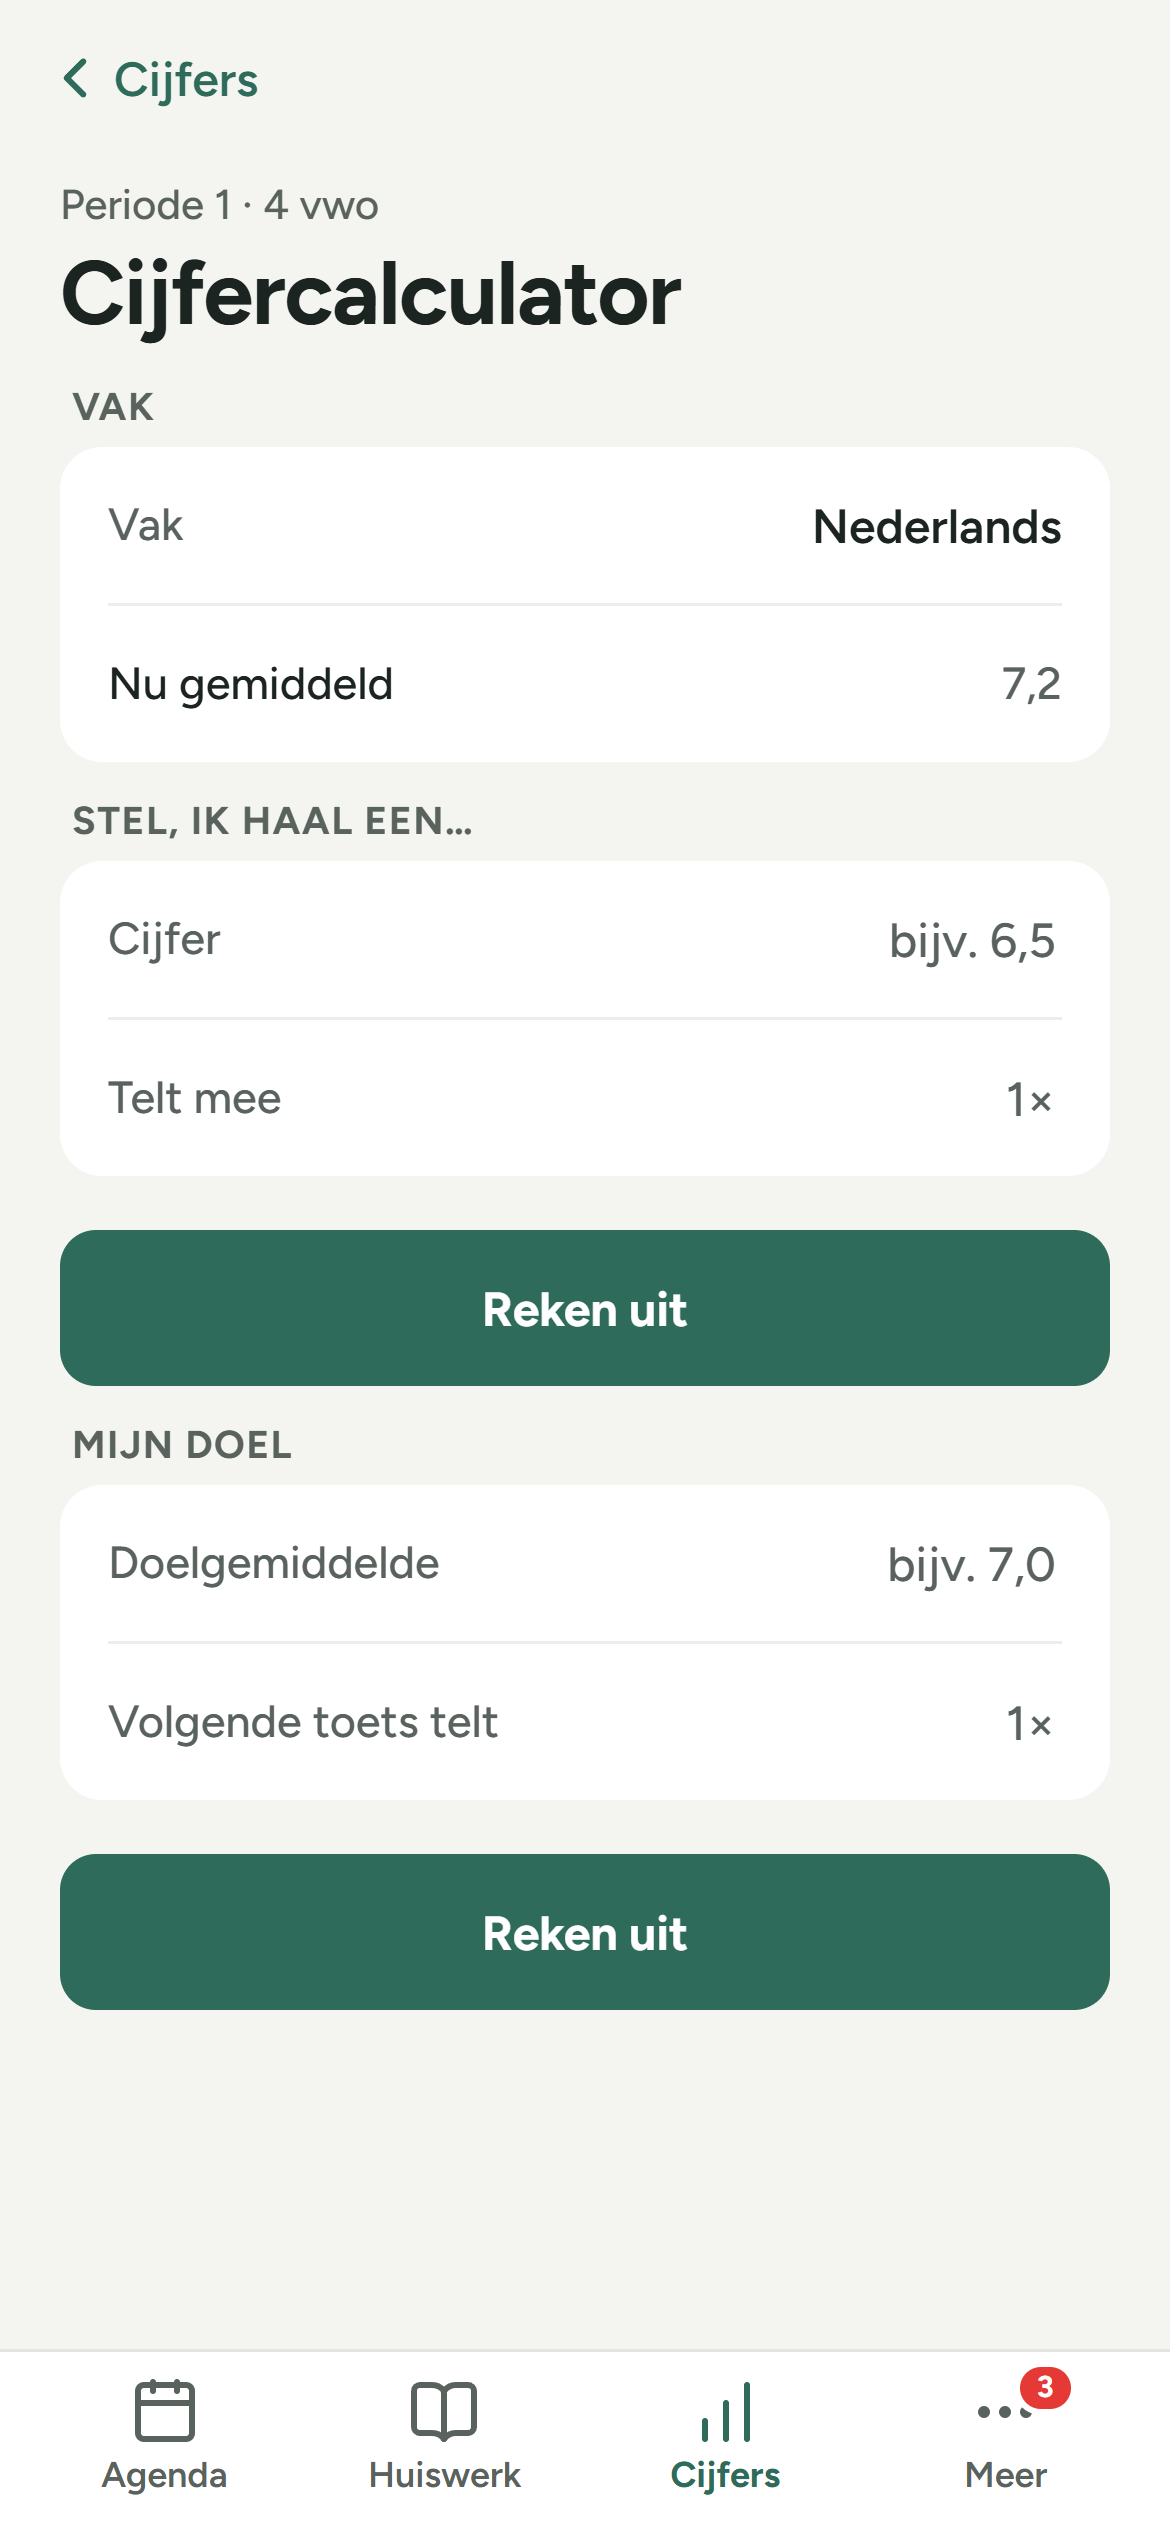
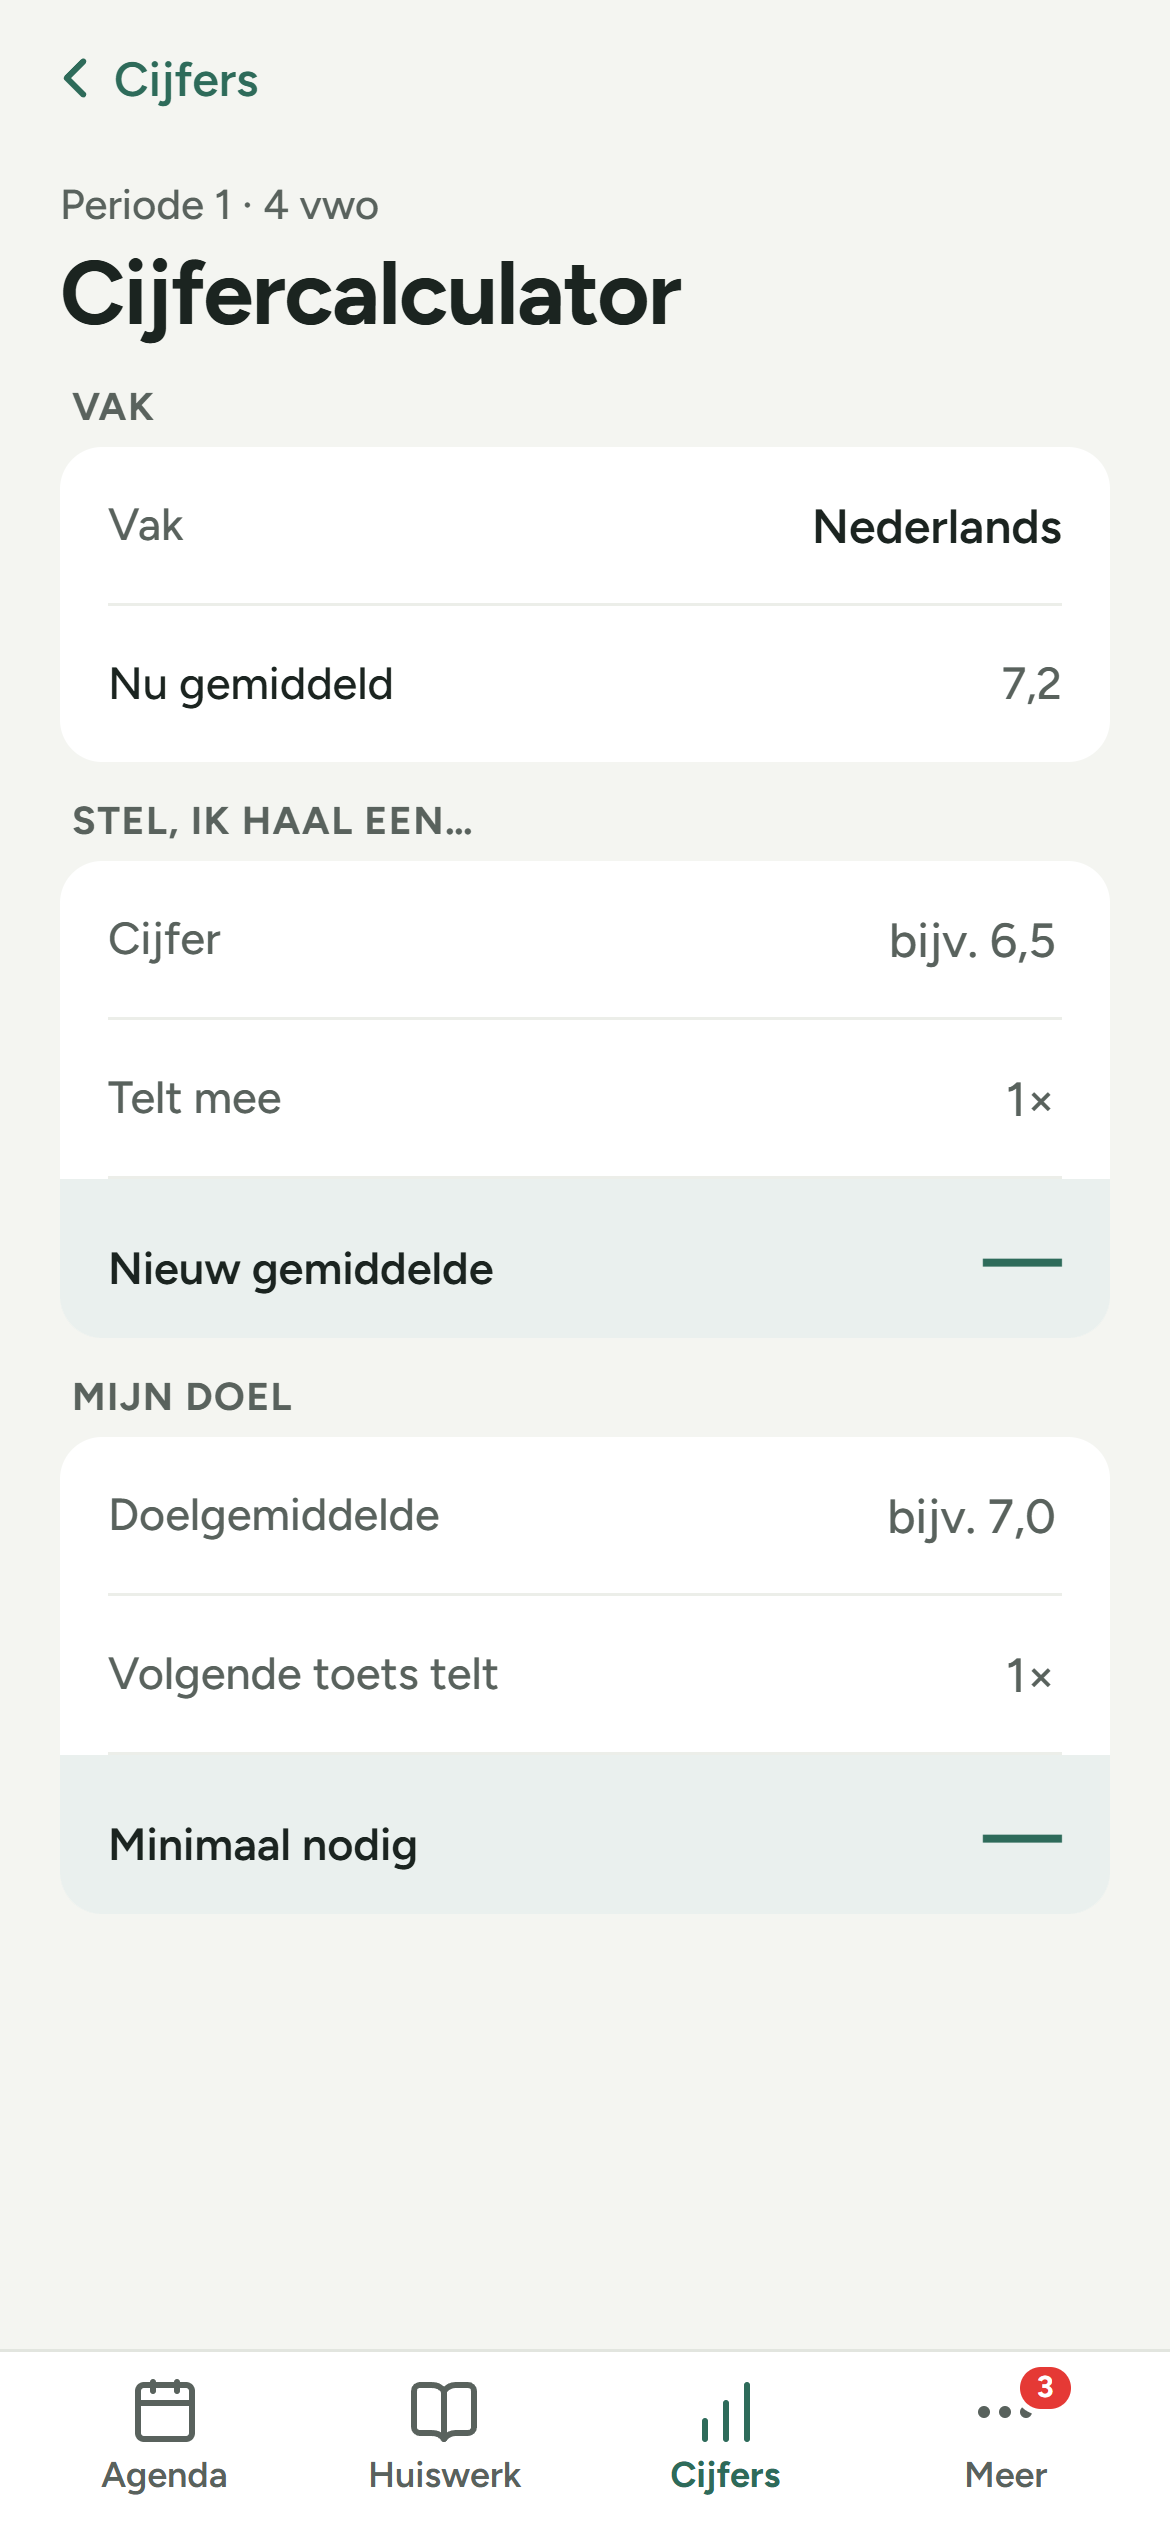
Cijfercalculator: rekent meteen mee tijdens het typen, zonder knoppen

diff --git a/src/screens/CijferCalculator.tsx b/src/screens/CijferCalculator.tsx
@@ -17,10 +17,13 @@ const parse = (s: string): number | null => {
   return Number.isFinite(n) ? n : null;
 };
 
-/** Een uitkomst: een getal met een label, of alleen een korte uitleg (bij foute invoer of een randgeval). */
+/**
+ * Een uitkomst: een label met een getal (of een streepje zolang er nog niets is ingevuld), of alleen een
+ * korte uitleg (bij foute invoer of een randgeval).
+ */
 interface Uitkomst {
   label?: string;
-  waarde?: number;
+  waarde?: number | null;
   uitleg?: string;
 }
 
@@ -31,8 +34,12 @@ function UitkomstRij({ uitkomst }: { uitkomst: Uitkomst }) {
       {uitkomst.label && uitkomst.waarde !== undefined && (
         <div className="calc-uitkomst__rij">
           <span>{uitkomst.label}</span>
-          <span className={`calc-uitkomst__getal${isOnvoldoende(uitkomst.waarde) ? ' calc-uitkomst__getal--laag' : ''}`}>
-            {formatCijfer(uitkomst.waarde)}
+          <span
+            className={`calc-uitkomst__getal${
+              uitkomst.waarde !== null && isOnvoldoende(uitkomst.waarde) ? ' calc-uitkomst__getal--laag' : ''
+            }`}
+          >
+            {uitkomst.waarde === null ? '—' : formatCijfer(uitkomst.waarde)}
           </span>
         </div>
       )}
@@ -54,11 +61,9 @@ export function CijferCalculator() {
 
   const [nieuw, setNieuw] = useState('');
   const [nieuwWeging, setNieuwWeging] = useState('');
-  const [stel, setStel] = useState<Uitkomst | null>(null);
 
   const [doel, setDoel] = useState('');
   const [doelWeging, setDoelWeging] = useState('');
-  const [nodig, setNodig] = useState<Uitkomst | null>(null);
 
   const kop = (
     <>
@@ -87,33 +92,31 @@ export function CijferCalculator() {
   const { som, weging: W } = vak ? somEnWeging(vak.cijfers) : { som: 0, weging: 0 };
   const huidig = W > 0 ? som / W : null;
 
-  const kiesVak = (code: string) => {
-    setVakCode(code);
-    setStel(null);
-    setNodig(null);
-  };
+  // De uitkomsten rekenen meteen mee terwijl je typt; zolang een veld leeg is staat er een streepje.
 
   /** Stel dat ik dit haal: het gemiddelde met het nieuwe cijfer erbij. */
-  const rekenStel = () => {
+  const stel = ((): Uitkomst => {
+    if (!nieuw.trim()) return { label: 'Nieuw gemiddelde', waarde: null };
     const c = parse(nieuw);
     const w = parse(nieuwWeging || '1');
-    if (c === null || c < 1 || c > 10) return setStel({ uitleg: 'Vul een cijfer van 1 tot en met 10 in.' });
-    if (w === null || w <= 0) return setStel({ uitleg: 'De weging moet meer dan 0 zijn.' });
-    setStel({ label: 'Nieuw gemiddelde', waarde: (som + c * w) / (W + w) });
-  };
+    if (c === null || c < 1 || c > 10) return { uitleg: 'Vul een cijfer van 1 tot en met 10 in.' };
+    if (w === null || w <= 0) return { uitleg: 'De weging moet meer dan 0 zijn.' };
+    return { label: 'Nieuw gemiddelde', waarde: (som + c * w) / (W + w) };
+  })();
 
   /** Mijn doel: het laagste cijfer waarmee je je doelgemiddelde haalt. */
-  const rekenNodig = () => {
+  const nodig = ((): Uitkomst => {
+    if (!doel.trim()) return { label: 'Minimaal nodig', waarde: null };
     const d = parse(doel);
     const w = parse(doelWeging || '1');
-    if (d === null || d < 1 || d > 10) return setNodig({ uitleg: 'Kies een doel van 1 tot en met 10.' });
-    if (w === null || w <= 0) return setNodig({ uitleg: 'De weging moet meer dan 0 zijn.' });
+    if (d === null || d < 1 || d > 10) return { uitleg: 'Kies een doel van 1 tot en met 10.' };
+    if (w === null || w <= 0) return { uitleg: 'De weging moet meer dan 0 zijn.' };
     const x = (d * (W + w) - som) / w;
     const minimaal = Math.ceil(x * 10) / 10;
-    if (x <= 1) setNodig({ uitleg: 'Geen zorgen: dit doel haal je met elk cijfer.' });
-    else if (minimaal > 10) setNodig({ uitleg: `Met één toets lukt dit niet; daarvoor zou je een ${formatCijfer(x)} nodig hebben.` });
-    else setNodig({ label: 'Minimaal nodig', waarde: minimaal });
-  };
+    if (x <= 1) return { uitleg: 'Geen zorgen: dit doel haal je met elk cijfer.' };
+    if (minimaal > 10) return { uitleg: `Met één toets lukt dit niet; daarvoor zou je een ${formatCijfer(x)} nodig hebben.` };
+    return { label: 'Minimaal nodig', waarde: minimaal };
+  })();
 
   return (
     <div className="pagina pagina--met-terug">
@@ -126,7 +129,7 @@ export function CijferCalculator() {
               id="calc-vak"
               className="invoerrij__veld invoerrij__keuze"
               value={vak?.vak.code ?? ''}
-              onChange={(e) => kiesVak(e.target.value)}
+              onChange={(e) => setVakCode(e.target.value)}
             >
               {vakken.map((v) => (
                 <option key={v.vak.code} value={v.vak.code}>
@@ -164,11 +167,8 @@ export function CijferCalculator() {
               onChange={(e) => setNieuwWeging(e.target.value)}
             />
           </Invoerrij>
-          {stel && <UitkomstRij uitkomst={stel} />}
+          <UitkomstRij uitkomst={stel} />
         </section>
-        <button type="button" className="knop-primair calc-knop" onClick={rekenStel}>
-          Reken uit
-        </button>
       </Sectie>
 
       <Sectie titel="Mijn doel">
@@ -193,11 +193,8 @@ export function CijferCalculator() {
               onChange={(e) => setDoelWeging(e.target.value)}
             />
           </Invoerrij>
-          {nodig && <UitkomstRij uitkomst={nodig} />}
+          <UitkomstRij uitkomst={nodig} />
         </section>
-        <button type="button" className="knop-primair calc-knop" onClick={rekenNodig}>
-          Reken uit
-        </button>
       </Sectie>
     </div>
   );

diff --git a/src/components/cijfers/cijfers.css b/src/components/cijfers/cijfers.css
@@ -153,13 +153,7 @@
   white-space: nowrap;
 }
 
-/* Cijfercalculator */
-.calc-knop {
-  width: 100%;
-  margin-top: 12px;
-}
-
-/* De uitkomst staat als laatste regel in de kaart, op een zacht getinte achtergrond. */
+/* Cijfercalculator: de uitkomst staat als laatste regel in de kaart, op een zacht getinte achtergrond. */
 .calc-uitkomst {
   margin: 0 -16px;
   padding: 12px 16px;
